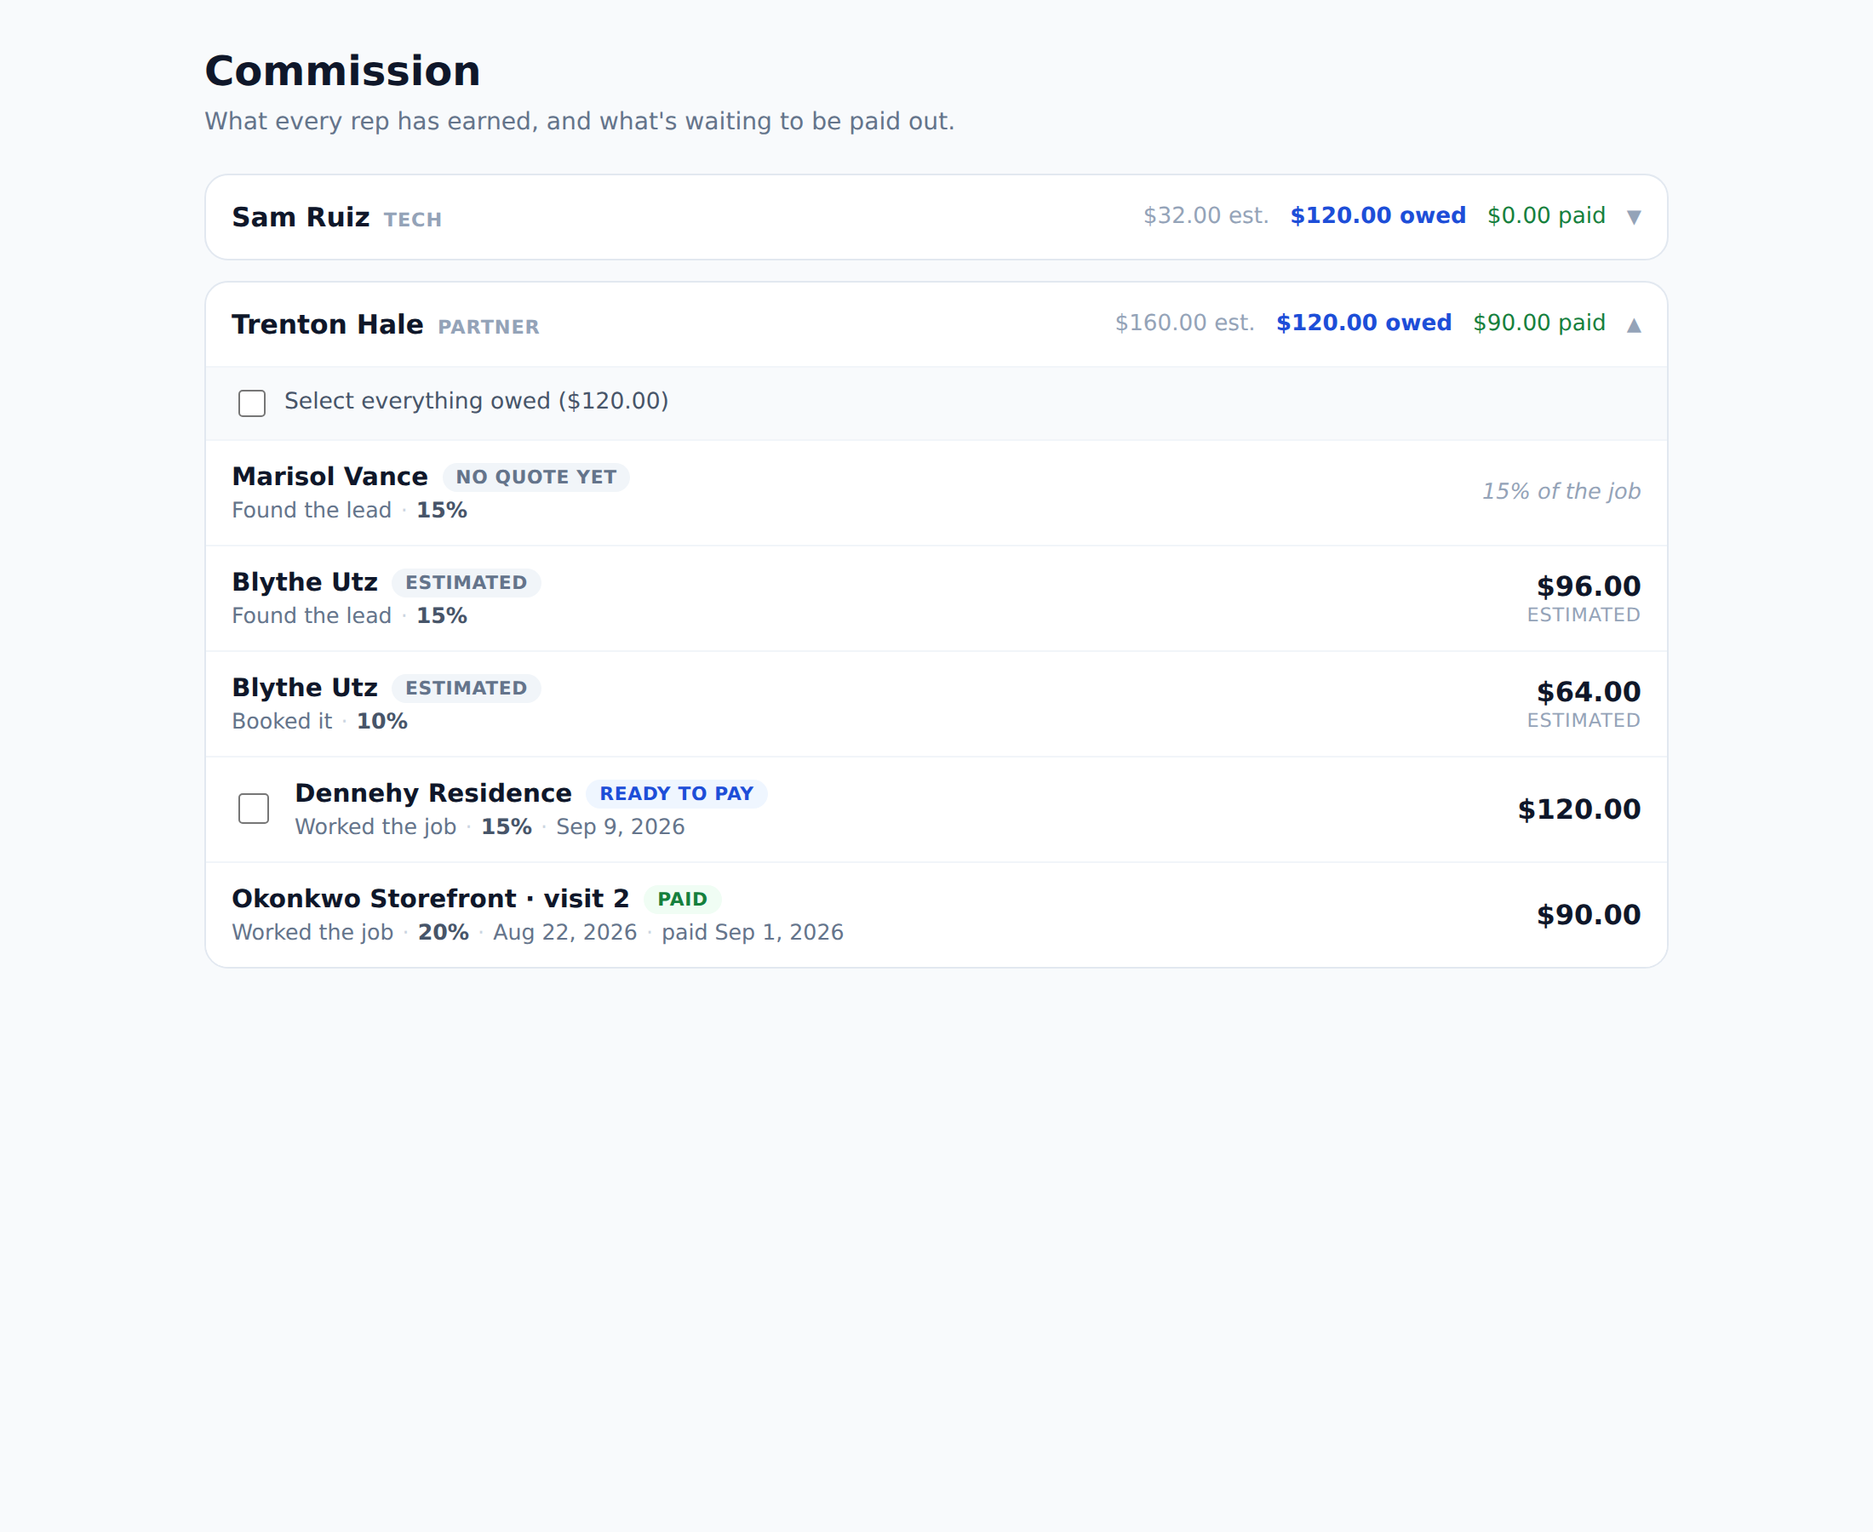
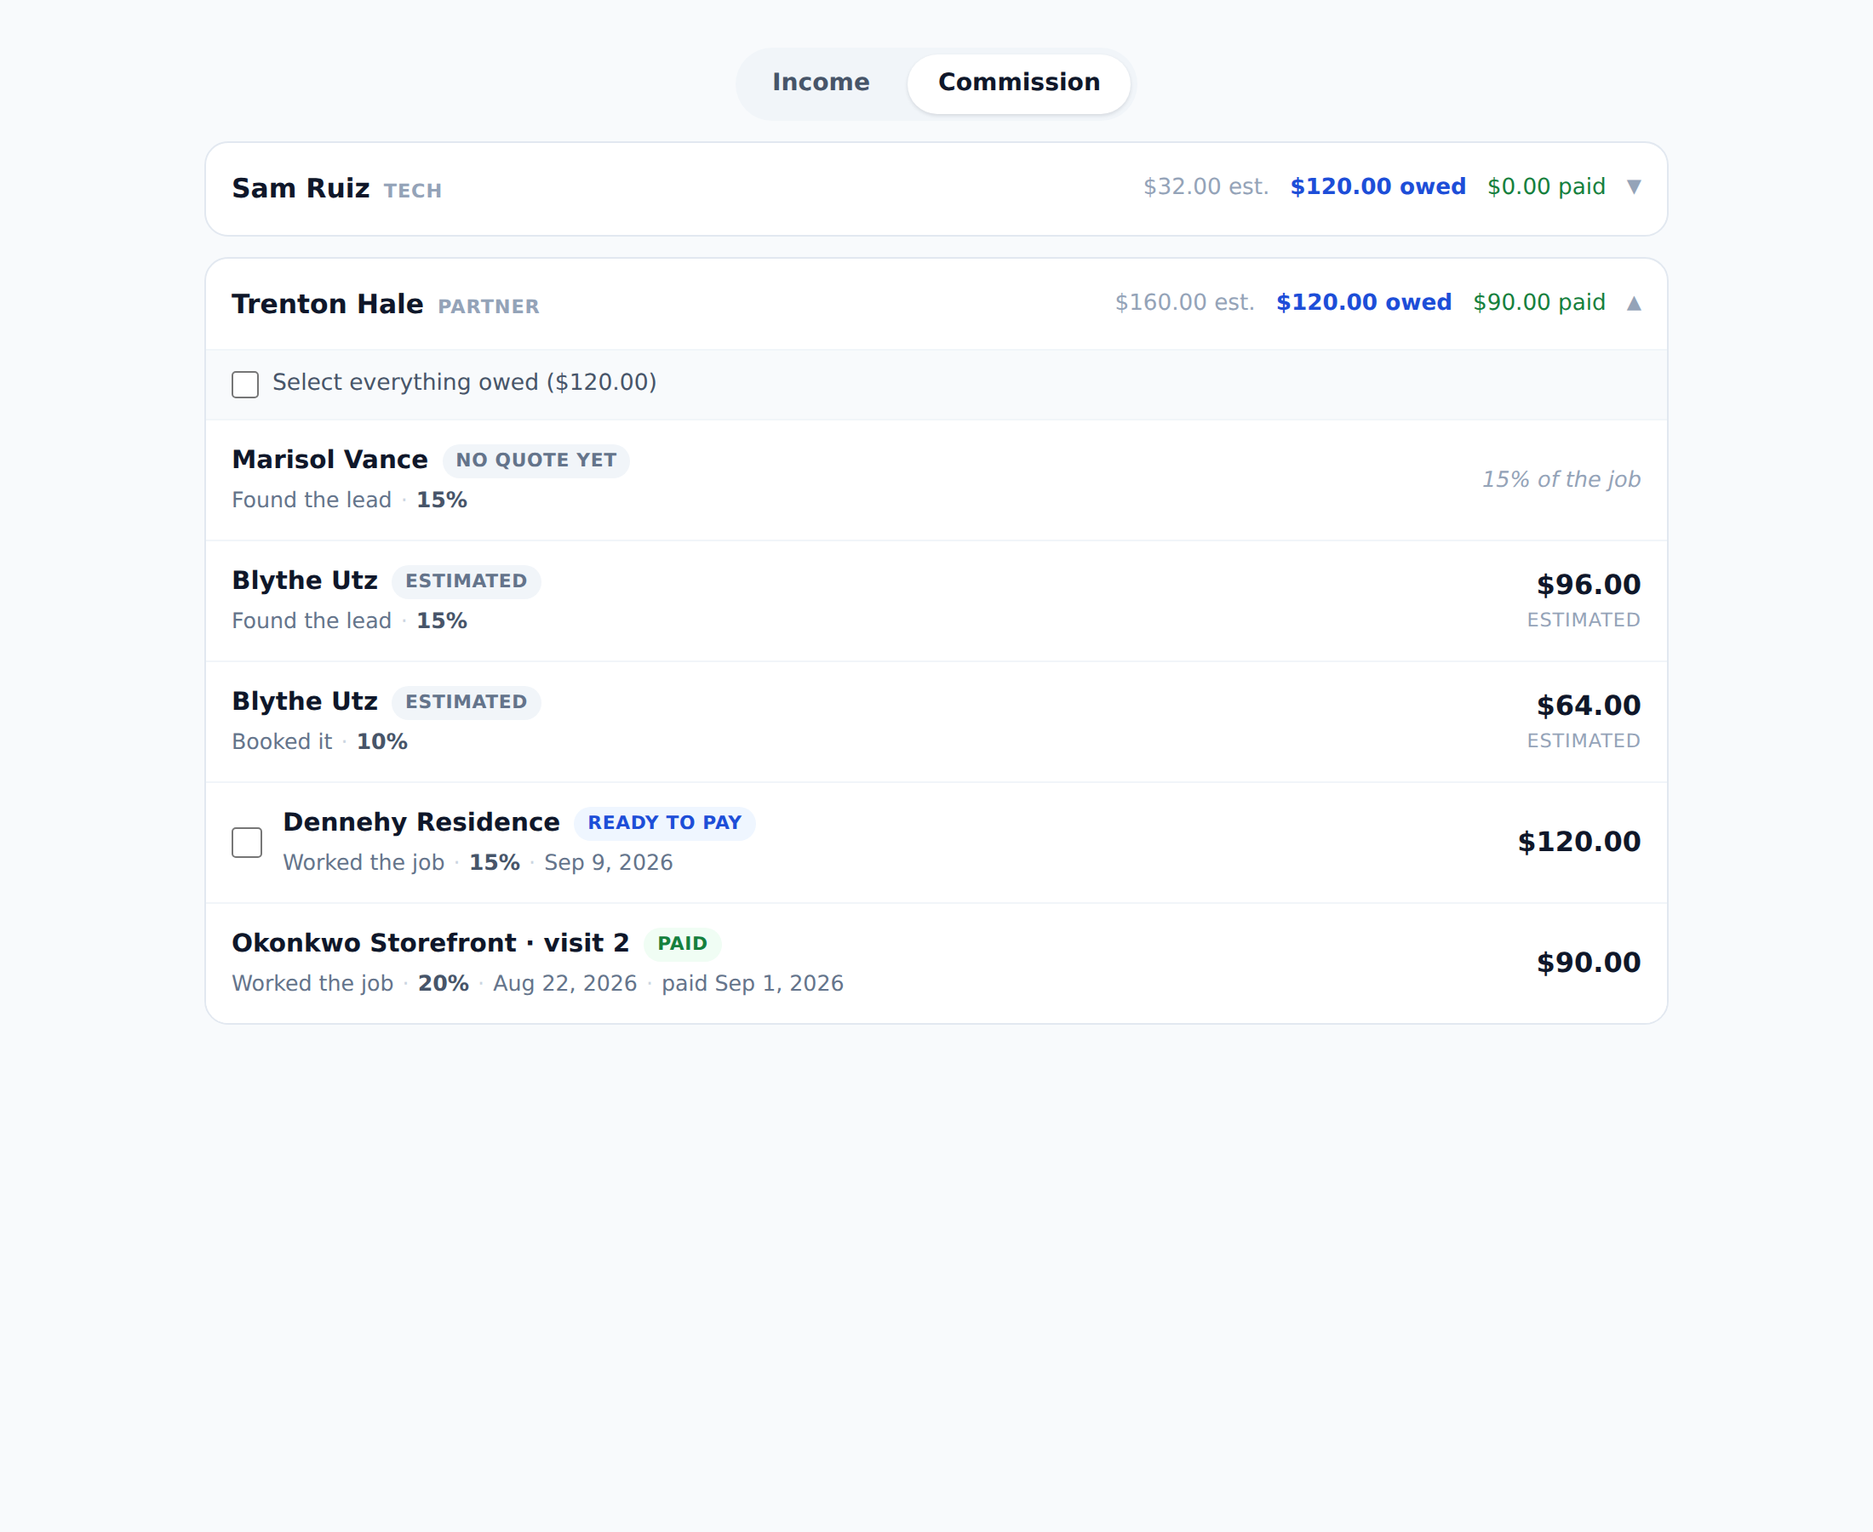
more auth permission updates for partner and tech user roles

diff --git a/src/pages/leads/LeadDetail.jsx b/src/pages/leads/LeadDetail.jsx
@@ -34,7 +34,7 @@ export default function LeadDetail() {
   const [calling, setCalling] = useState(false);
   const [error, setError] = useState("");
   const [confirmDelete, setConfirmDelete] = useState(false);
-  const { role } = useAuth();
+  const { role, user } = useAuth();
   const canDelete = can(role, "delete_leads");
   const [events, setEvents] = useState([]);
 
@@ -143,6 +143,23 @@ export default function LeadDetail() {
   if (loading) return <div className="detail__state">Loading…</div>;
   if (!form) return <div className="detail__state">{error || "Not found."}</div>;
 
+  // Who may close a lead out.
+  //
+  // Lost and Archived are the two transitions that can release a
+  // commission: a lead 30+ quiet days old gives up its pending fees when it
+  // is killed, and on a shared board that fee may belong to someone else.
+  // Owners may close anything. Everyone else may close their own — which is
+  // the case that actually matters in the field, because the lead you just
+  // knocked and got a no on is yours.
+  //
+  // A lead with no creator (the website's own inserts) is nobody's, so only
+  // an owner retires it.
+  const isMine = !!form.created_by && form.created_by === user?.id;
+  const mayRetire = can(role, "retire_leads") || isMine;
+  const settableStatuses = LEADS_SETTABLE_STATUSES.filter(
+    (s) => mayRetire || (s.key !== "lost" && s.key !== "archived")
+  );
+
   return (
     <div className="detail">
       <div className="detail__top">
@@ -188,14 +205,27 @@ export default function LeadDetail() {
           <select className="detail__input" value={form.status}
             onChange={(e) => set("status", e.target.value)}>
             {/* Always show the lead's current status, even if it isn't
-                normally settable here (e.g. a scheduled lead viewed directly). */}
-            {!LEADS_SETTABLE_STATUSES.some((s) => s.key === form.status) && (
+                normally settable here — a scheduled lead viewed directly,
+                or a lead already Lost being read by someone who couldn't
+                set it. Checked against the FILTERED list, not the full one,
+                or a tech opening a lost lead would see the select snap to
+                Contacted and silently reopen it on save. */}
+            {!settableStatuses.some((s) => s.key === form.status) && (
               <option value={form.status}>{form.status}</option>
             )}
-            {LEADS_SETTABLE_STATUSES.map((s) => (
+            {settableStatuses.map((s) => (
               <option key={s.key} value={s.key}>{s.label}</option>
             ))}
           </select>
+          {/* Said out loud rather than left as a gap. Two options quietly
+              missing from a dropdown reads as a bug; a sentence reads as a
+              rule. */}
+          {!mayRetire && (
+            <p className="detail__statushint">
+              Only an owner can mark someone else&rsquo;s lead lost or
+              archived.
+            </p>
+          )}
         </Field>
 
         <Field label="Phone">

diff --git a/src/components/capabilities.js b/src/components/capabilities.js
@@ -81,6 +81,17 @@ const ALLOWED = {
   partner: ["leads", "schedule", "map", "commission", "job-detail"],
 };
 
+// Sections a role may reach but should NOT get a top-level tab for, because
+// that role reaches them somewhere better.
+//
+// An owner gets to Commission through the Income switcher — the two are the
+// same question from different angles, and side-by-side tabs made the nav
+// look like there were two separate money pages. A rep has no Income view
+// to switch between, so for them Commission stays a tab of its own.
+const NAV_EXCLUDE = {
+  admin: ["commission"],
+};
+
 // Actions that are not places. Kept in the same file because "what may this
 // role do" is one question, and splitting it across two modules is how the
 // nav and the buttons drift apart.
@@ -92,6 +103,25 @@ const ACTIONS = {
   // The calendar shows the whole team by default. Anyone without this sees
   // only the jobs they are assigned to.
   see_all_jobs: ["admin"],
+
+  // Marking a lead Lost or Archived from the BOARD, in one tap on a card.
+  //
+  // Both are the transitions that can release a commission — a lead 30+
+  // quiet days old gives up its pending fees when it is killed, and on a
+  // shared board that fee may not be yours. Owners keep the one-tap
+  // version; everyone else opens the lead first, where they can see whose
+  // it is and what was last said before writing it off.
+  //
+  // Costed, not free: the card comment notes that marking a no at the door
+  // is the commonest action after a knock, and this adds a tap to it. The
+  // trade was made deliberately.
+  retire_leads: ["admin"],
+
+  // "Archive all 12" on the stale bar. Every lead it touches is by
+  // definition past the 30-day gate, so one press can void several reps'
+  // pending fees at once with no confirmation. The largest single lever in
+  // the CRM; owners only.
+  bulk_archive_leads: ["admin"],
 };
 
 // What an unrecognised or missing role gets.
@@ -128,7 +158,10 @@ export function can(role, action) {
 
 // The nav tabs this role should see, as section keys in display order.
 export function navSectionsFor(role) {
-  return NAV_SECTIONS.filter((section) => canSee(role, section));
+  const hidden = NAV_EXCLUDE[role || FALLBACK_ROLE] || [];
+  return NAV_SECTIONS.filter(
+    (section) => canSee(role, section) && !hidden.includes(section)
+  );
 }
 
 // The lead source to preselect for this role.

diff --git a/src/App.jsx b/src/App.jsx
@@ -61,7 +61,11 @@ function Shell({ children }) {
     leads: () => sectionTab("leads", "Leads"),
     jobs: () => sectionTab("jobs", "Jobs"),
     schedule: () => sectionTab("schedule", "Schedule"),
-    income: () => ({ to: "/income", root: "/income", label: "Income" }),
+    // sectionTab, not a fixed "/income": Income has two views now, and a
+    // hardcoded target means tapping the nav always dumps you back on the
+    // books even when you were last looking at Commission. Same treatment
+    // every other multi-view section already gets.
+    income: () => sectionTab("income", "Income"),
     commission: () => ({
       to: "/commission",
       root: "/commission",
@@ -113,6 +117,18 @@ function Shell({ children }) {
       <main className="shell__main">{children}</main>
     </div>
   );
+}
+
+// Commission lives in two places, and this decides which one you get.
+//
+// An owner reaches it as a view of Income; a rep reaches it as a tab. Anyone
+// arriving at the bare /commission — a bookmark, a remembered view, a typed
+// URL, a link from an older build — is sent to whichever is canonical for
+// them rather than shown a page with no way back to its sibling.
+function CommissionEntry() {
+  const { isAdmin } = useAuth();
+  if (isAdmin) return <Navigate to="/income/commission" replace />;
+  return <Commission />;
 }
 
 // Bounce a role that can't have this section to somewhere it can.
@@ -198,7 +214,11 @@ export default function App() {
           owner sees every rep. The component branches on isAdmin, and
           the database enforces it — RLS on `commissions` returns a rep
           only their own rows however the request is made. */}
-      <Route path="/commission" element={<Page section="commission"><Commission /></Page>} />
+      <Route path="/commission" element={<Page section="commission"><CommissionEntry /></Page>} />
+      {/* Section "income", not "commission": as a view of Income it is
+          gated by whatever gates Income, which keeps the switcher's two
+          halves reachable by exactly the same people. */}
+      <Route path="/income/commission" element={<Page section="income"><Commission /></Page>} />
       <Route path="/customers" element={<Page section="customers"><Customers /></Page>} />
       {/* Static segment, so React Router ranks it above /customers/:id —
           same reason /customers/add-past already works. */}

diff --git a/src/pages/commission/Commission.jsx b/src/pages/commission/Commission.jsx
@@ -1,5 +1,7 @@
 import { useEffect, useMemo, useState } from "react";
 import { useAuth } from "../../context/useAuth";
+import ViewSwitcher from "../../components/ViewSwitcher";
+import { INCOME_VIEWS } from "../../components/navViews";
 import {
   fetchCommissions,
   fetchMyRates,
@@ -316,16 +318,30 @@ export default function Commission() {
 
   return (
     <div className="comm">
-      <header className="comm__head">
-        <h1 className="comm__title">{isAdmin ? "Commission" : "Your commission"}</h1>
-        <p className="comm__blurb">
-          {isAdmin
-            ? "What every rep has earned, and what's waiting to be paid out."
-            : rates
+      {/* Only for an owner. A rep reaches this page as a tab of its own and
+          has no Income view to switch to, so the switcher would be a
+          two-option control with one option they cannot use. */}
+      {isAdmin && <ViewSwitcher views={INCOME_VIEWS} section="income" />}
+
+      {isAdmin ? (
+        // The switcher directly above already says Commission, so the
+        // title and its one-line summary were both restating the tab you
+        // just pressed. Hidden visually, kept for screen readers.
+        //
+        // Only for an owner: a rep has no switcher, so for them the header
+        // is the only thing naming the page — and its blurb carries their
+        // own rates, which is the most useful sentence on it.
+        <h1 className="visually-hidden">Commission</h1>
+      ) : (
+        <header className="comm__head">
+          <h1 className="comm__title">Your commission</h1>
+          <p className="comm__blurb">
+            {rates
               ? `You earn ${rates.find}% for finding a lead, ${rates.book}% for booking it, and ${rates.work}% for working the job. Nothing is payable until the customer has paid.`
               : "Nothing is payable until the customer has paid."}
-        </p>
-      </header>
+          </p>
+        </header>
+      )}
 
       {error && <p className="comm__error">{error}</p>}
       {notice && <p className="comm__notice">{notice}</p>}

diff --git a/src/components/LeadCard.jsx b/src/components/LeadCard.jsx
@@ -6,6 +6,8 @@ import {
   serviceFor,
   telHref,
 } from "../services/leadService";
+import { useAuth } from "../context/useAuth";
+import { can } from "./capabilities";
 
 function formatDate(iso) {
   const d = new Date(iso);
@@ -28,6 +30,7 @@ function formatDate(iso) {
  */
 export default function LeadCard({ lead, onMove, onContact }) {
   const navigate = useNavigate();
+  const { role } = useAuth();
   const [menuOpen, setMenuOpen] = useState(false);
 
   const temp = TEMPERATURES.find((t) => t.key === lead.temperature);
@@ -44,12 +47,26 @@ export default function LeadCard({ lead, onMove, onContact }) {
       ? lead.service
       : null;
 
-  // Stages you can move to from the board: forward pipeline moves, plus
-  // Lost — marking a no at the door is the single most common action after
-  // a knock, so it shouldn't need a trip to the detail page. Archived stays
-  // excluded; it's a deliberate cleanup action, not a field decision.
+  // Stages you can move to from the board.
+  //
+  // Archived is never here — it's a deliberate cleanup action, not a field
+  // decision. Lost used to be, for everyone, and the reason was good:
+  // marking a no at the door is the single most common thing that happens
+  // after a knock, and making it cost a trip to the detail page taxes the
+  // motion a rep makes twenty times a day.
+  //
+  // It's now owners-only, and that is a real trade rather than a free win.
+  // What bought it: Lost and Archived are the two transitions that can
+  // release a commission, the board is shared, and the fee at stake may
+  // belong to somebody else. A rep opens the lead first — where they can
+  // see whose it is and when it was last touched — and everything else on
+  // the card stays one tap.
+  const canRetire = can(role, "retire_leads");
   const otherStages = LEADS_SETTABLE_STATUSES.filter(
-    (s) => s.key !== lead.status && s.key !== "archived"
+    (s) =>
+      s.key !== lead.status &&
+      s.key !== "archived" &&
+      (canRetire || s.key !== "lost")
   );
 
   function handleMove(stageKey) {

diff --git a/src/pages/leads/Leads.jsx b/src/pages/leads/Leads.jsx
@@ -14,6 +14,7 @@ import ViewSwitcher from "../../components/ViewSwitcher";
 import ScopeToggle from "../../components/ScopeToggle";
 import { initialScope } from "../../components/scopeMemory";
 import { useAuth } from "../../context/useAuth";
+import { can } from "../../components/capabilities";
 import { LEAD_VIEWS } from "../../components/navViews";
 import DragPromptModal from "../../components/DragPromptModal";
 import "./Leads.css";
@@ -34,7 +35,11 @@ function loadCollapsed() {
 
 export default function Leads() {
   const navigate = useNavigate();
-  const { user } = useAuth();
+  const { user, role } = useAuth();
+  // One press archives every stale lead at once. All of them are past
+  // the 30-day gate by definition, so it can void several reps' pending
+  // commissions in a single action — the largest lever on this page.
+  const canBulkArchive = can(role, "bulk_archive_leads");
   // Seeded from storage rather than defaulted then corrected, so the board
   // never flashes the whole team's leads before narrowing to yours.
   const [scope, setScope] = useState(initialScope);
@@ -226,13 +231,15 @@ export default function Leads() {
           >
             {staleOnly ? "Show all" : "Show only these"}
           </button>
-          <button
-            className="leads__archivebtn"
-            onClick={handleArchiveStale}
-            disabled={archiving}
-          >
-            {archiving ? "Archiving…" : `Archive all ${staleLeads.length}`}
-          </button>
+          {canBulkArchive && (
+            <button
+              className="leads__archivebtn"
+              onClick={handleArchiveStale}
+              disabled={archiving}
+            >
+              {archiving ? "Archiving…" : `Archive all ${staleLeads.length}`}
+            </button>
+          )}
         </div>
       )}
 

diff --git a/src/components/navViews.js b/src/components/navViews.js
@@ -38,6 +38,19 @@ export const CUSTOMER_VIEWS = [
   { to: "/customers/communication", label: "Communication" },
 ];
 
+// The books, and who is owed out of them. Two views rather than two tabs
+// because an owner arrives at both asking the same sort of question —
+// "where did the money go" — and because Commission as a top-level tab
+// alongside Income read as a second, competing money page.
+//
+// Reps still reach Commission at /commission as a tab of its own: they have
+// no Income view to switch between, so a switcher with one usable half
+// would be furniture.
+export const INCOME_VIEWS = [
+  { to: "/income", label: "Income", end: true },
+  { to: "/income/commission", label: "Commission" },
+];
+
 // Sections whose last-used view is remembered across visits. `key` is the
 // storage key; `root` is what the top nav highlights against.
 export const REMEMBERED_SECTIONS = {
@@ -45,4 +58,5 @@ export const REMEMBERED_SECTIONS = {
   jobs: { root: "/jobs", views: JOB_VIEWS },
   schedule: { root: "/schedule", views: SCHEDULE_VIEWS },
   customers: { root: "/customers", views: CUSTOMER_VIEWS },
+  income: { root: "/income", views: INCOME_VIEWS },
 };

diff --git a/src/pages/income/Income.jsx b/src/pages/income/Income.jsx
@@ -2,6 +2,8 @@ import { useEffect, useState } from "react";
 import DatePicker from "react-datepicker";
 import "react-datepicker/dist/react-datepicker.css";
 import { fetchCompletedJobs } from "../../services/customerService";
+import ViewSwitcher from "../../components/ViewSwitcher";
+import { INCOME_VIEWS } from "../../components/navViews";
 import "./Income.css";
 
 const PERIODS = [
@@ -138,9 +140,13 @@ export default function Income() {
 
   return (
     <div className="income">
-      <div className="income__head">
-        <h1 className="income__title">Income</h1>
-      </div>
+      <ViewSwitcher views={INCOME_VIEWS} section="income" />
+
+      {/* The switcher is the visible heading — an "Income" title directly
+          under a tab reading Income is pure duplication, the same one the
+          Leads board removed. The h1 stays for screen readers and document
+          structure, just hidden visually. */}
+      <h1 className="visually-hidden">Income</h1>
 
       <div className="income__periods">
         {PERIODS.map((p) => (

diff --git a/src/pages/leads/LeadDetail.css b/src/pages/leads/LeadDetail.css
@@ -402,3 +402,13 @@
   font-size: 0.8rem;
   color: #64748b;
 }
+
+/* Why two options are missing from the status dropdown. Quiet — it's an
+   explanation, not a warning, and it sits under a control most people can
+   use fully. */
+.detail__statushint {
+  margin: 6px 0 0;
+  font-size: 0.76rem;
+  line-height: 1.45;
+  color: #94a3b8;
+}
